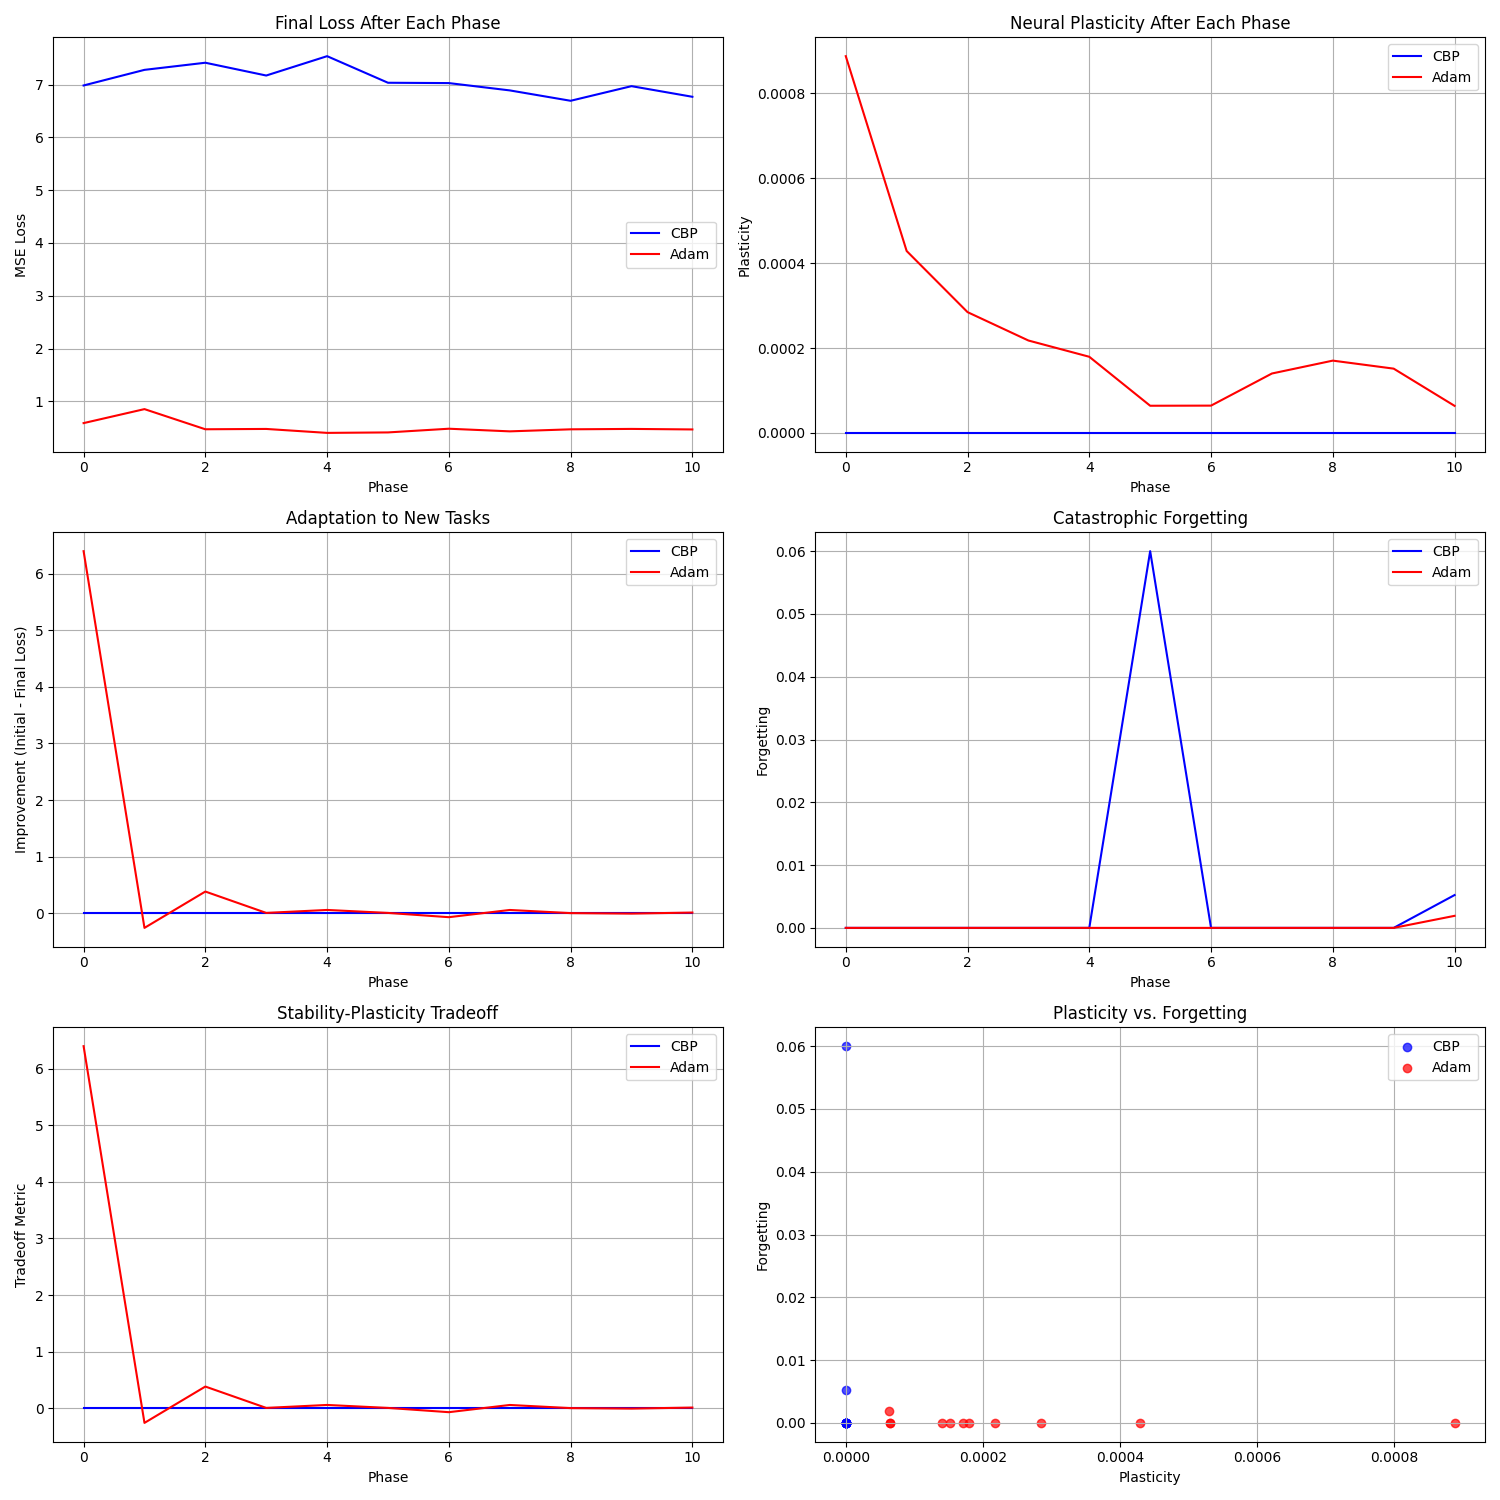
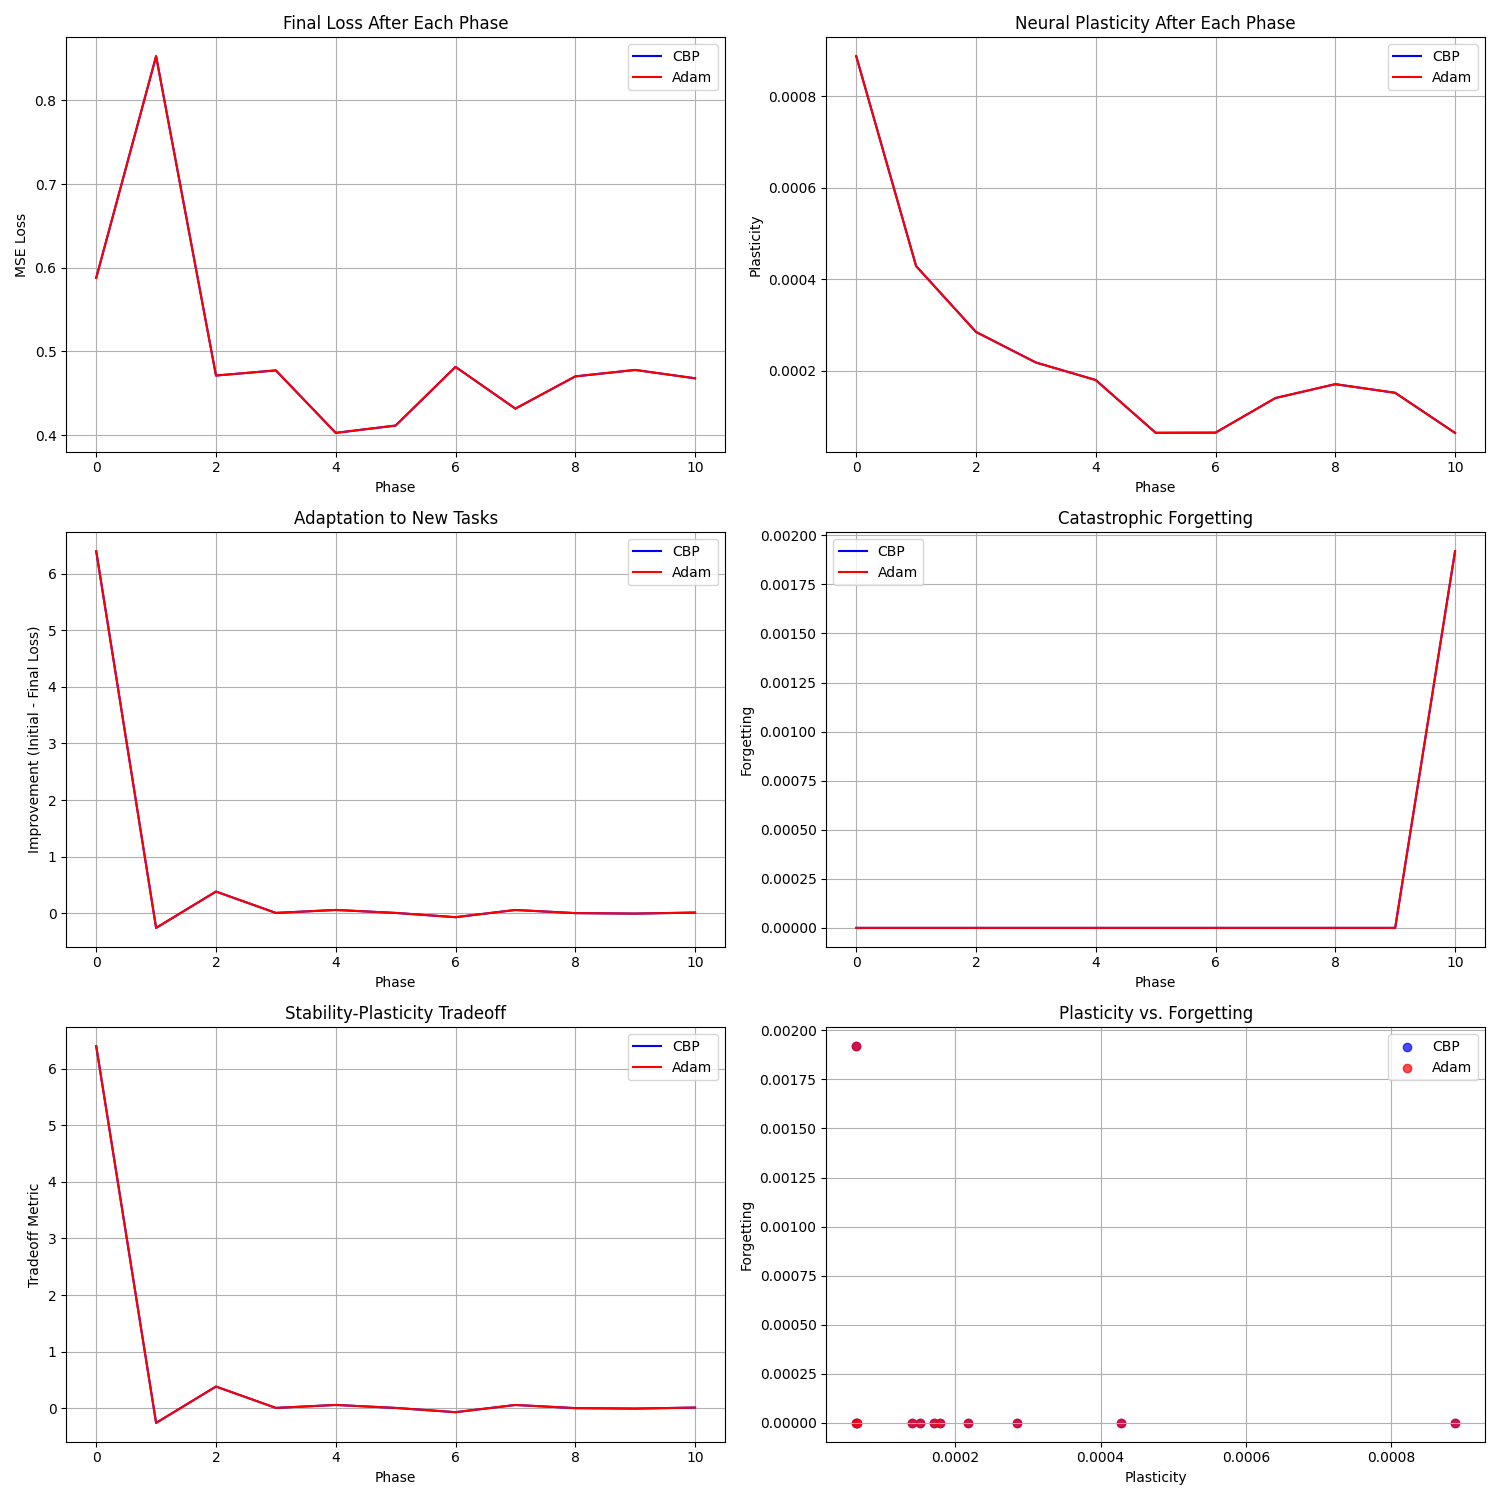
Updated at 2025-02-26 13:36:49

diff --git a/continual_learning/optim/continual_backprop.py b/continual_learning/optim/continual_backprop.py
@@ -1,3 +1,4 @@
+from flax import struct
 from flax.core import FrozenDict
 from flax.typing import FrozenVariableDict
 from jax.random import PRNGKey
@@ -12,74 +13,6 @@ import jax.numpy as jnp
 from copy import deepcopy
 from functools import partial
 
-# class ContinualBackprop(optax.GradientTransformation):
-#     def __init__(
-#         self,
-#         threshold: float = 0.1,
-#         sparsity: float = 0.5,
-#         begin_step: int = 0,
-#         end_step: None | int = None,
-#         frequency: int = 100,
-#     ):
-#         """Continual backpropergation optimiser.
-#
-#         Args:
-#             threshold: Magnitude threshold below which to prune
-#             sparsity: Target sparsity ratio (0 to 1)
-#             begin_step: Step to begin pruning
-#             end_step: Step to end pruning (None = no end)
-#             frequency: How often to update pruning mask
-#         """
-#         self.threshold = threshold
-#         self.sparsity = sparsity
-#         self.begin_step = begin_step
-#         self.end_step = end_step
-#         self.frequency = frequency
-#
-#     def init(self, params):
-#         """Initialize pruning state with mask of ones."""
-#         return PruningState(mask=jax.tree_map(lambda x: jnp.ones_like(x), params))
-#
-#     def update_mask(self, params, state):
-#         """Update pruning mask based on parameter magnitudes."""
-#         # Calculate magnitude of parameters
-#         magnitudes = jax.tree_map(lambda x: jnp.abs(x), params)
-#
-#         # Find threshold for desired sparsity
-#         flat_magnitudes = jax.tree_util.tree_leaves(magnitudes)
-#         flat_magnitudes = jnp.concatenate([x.ravel() for x in flat_magnitudes])
-#         threshold = jnp.quantile(flat_magnitudes, self.sparsity)
-#
-#         # Create new mask
-#         new_mask = jax.tree_map(
-#             lambda x: jnp.where(jnp.abs(x) > threshold, 1.0, 0.0), params
-#         )
-#         return new_mask
-#
-#     def update(self, updates, state, params=None):
-#         """Apply pruning transform to updates."""
-#         del params
-#
-#         # Increment counter
-#         new_count = state.count + 1
-#
-#         # Update mask if needed
-#         should_update = (
-#             (new_count >= self.begin_step)
-#             & ((self.end_step is None) | (new_count <= self.end_step))
-#             & (new_count % self.frequency == 0)
-#         )
-#
-#         def update_fn(mask, update):
-#             # Apply existing mask
-#             pruned_update = update * mask
-#             return pruned_update
-#
-#         # Apply mask to updates
-#         new_updates = jax.tree_map(update_fn, state.mask, updates)
-#
-#         return new_updates, PruningState(mask=state.mask, count=new_count)
-
 UTIL_TYPES = [
     "weight",
     "contribution",
@@ -88,44 +21,76 @@ UTIL_TYPES = [
     "adaptable_contribution",
     "feature_by_input",
 ]
-
+def check_tree_shapes(tree1: PyTree, tree2: PyTree):
+    ## assert tree shapes havn't changed
+    old_tree_structure = jax.tree_util.tree_structure(tree1)
+    new_tree_structure = jax.tree_util.tree_structure(tree2)
+    assert old_tree_structure == new_tree_structure, (
+        f"Tree structure has changed from {old_tree_structure} to {new_tree_structure}"
+    )
 
 class CBPTrainState(TrainState):
+    cbp_state: optax.OptState = struct.field(pytree_node=True)
+
+    @classmethod
+    def create(cls, *, apply_fn, params, tx, **kwargs):
+        """Creates a new instance with ``step=0`` and initialized ``opt_state``."""
+        # We exclude OWG params when present because they do not need opt states.
+        # params_with_opt = (
+        #   params['params'] if OVERWRITE_WITH_GRADIENT in params else params
+        # )
+        opt_state = tx.init(params)
+        cbp_state = continual_backprop().init(params)
+        return cls(
+          step=0,
+          apply_fn=apply_fn,
+          params=params,
+          tx=tx,
+          opt_state=opt_state,
+          cbp_state=cbp_state,
+          **kwargs,
+        )
+
+
     def apply_gradients(self, *, grads, features, **kwargs):
         """TrainState that gives intermediates to optimizer and overwrites params with updates directly"""
         # Extract the params we want to optimize
-        grads_with_opt = grads["params"]
-        # print("self.params", self.params)
-        params_with_opt = self.params["params"]
+        grads = grads["params"]
+        params_for_cbp = self.params["params"]
 
-        # Update with optimizer
-        # updates, new_opt_state = self.tx.update(
-        #     grads_with_opt, self.opt_state, params_with_opt, features=features
-        # )
-
-        new_params, new_opt_state = continual_backprop().update(
-            grads_with_opt,
-            self.opt_state[0],
-            params_with_opt,
+        # Update with continual backprop
+        new_params, new_cbp_state = continual_backprop().update(
+            grads,
+            self.cbp_state,
+            params_for_cbp,
             features=features["intermediates"]["activations"][0],
         )
-        old_tree_structure = jax.tree_util.tree_structure(params_with_opt)
-        new_tree_structure = jax.tree_util.tree_structure(new_params)
-        # assert old_tree_structure == new_tree_structure, (
-        #     f"Tree structure has changed from {old_tree_structure} to {new_tree_structure} after cbp update"
-        # )
-        # new_params_with_opt = optax.apply_updates(params_with_opt, updates)
+        
+        check_tree_shapes(new_params, params_for_cbp)
 
-        # Maintain the nested structure of params
-        new_params = {"params": new_params}
+        # Prepare for optax optimizer
+        params_for_opt = {"params": new_params}
+        grad_for_opt = {"params": grads}
+        
+        print("params_for_opt", params_for_opt.keys())
+        print("grad_for_opt", grad_for_opt.keys())
+        
+        # Get updates from optimizer
+        tx_updates, new_opt_state = self.tx.update(grad_for_opt, self.opt_state, params_for_opt)
+        
+        # FIXED: Apply updates to params_for_opt (which has 'params' key) not new_params
+        new_params_with_opt = optax.apply_updates(params_for_opt, tx_updates)
+        
+        # Extract the updated parameters from the nested structure
+        final_params = new_params_with_opt["params"]
 
         return self.replace(
             step=self.step + 1,
-            params=new_params,
+            params={"params": final_params},  # Make sure to maintain the 'params' structure
             opt_state=new_opt_state,
+            cbp_state=new_cbp_state[0],
             **kwargs,
         )
-
 
 @dataclass
 class CBPOptimState:
@@ -177,6 +142,7 @@ def continual_backprop(
     def process_params(params: FrozenDict):
         # seperates bias from params
         _params = deepcopy(params)  # ["params"]
+        # breakpoint()
         excluded = {
             "out_layer": _params.pop("out_layer")
         }  # TODO: pass excluded layer names as inputs to cp optim/final by default
@@ -269,10 +235,9 @@ def continual_backprop(
         ):
             """
             TODO:
-            > loops through weights and bias, skip biases if not needed note this will need to happen for util initialisation too
-            > features are after activation, can maybe just assume relu but remember last layer has no activation
-            > make actual bound
-            > Don't need an age for each connection, only each neuron in the network
+            > Only get the masks for which neurons need pruning
+            > Then process so that both layers are masked for pruning
+            > Prune based on new mask.
             """
 
             # Maybe have a dictionary of the different util func transformations and then call the index in a cond

diff --git a/continual_learning/nn/ffnn_test.py b/continual_learning/nn/ffnn_test.py
@@ -58,13 +58,13 @@ def test_optim():
     net_custom = FFNN()
     params = net_custom.init(key, dummy_input)
 
-    tx = optax.chain(
-        continual_backprop(),
-        # optax.adam(1e-1)  # Base optimiser
-    )
+    # tx = optax.chain(
+    #     continual_backprop(),
+    #     # optax.adam(1e-1)  # Base optimiser
+    # )
     tx_adam = optax.adam(0)
 
-    net_ts = CBPTrainState.create(apply_fn=net_custom.predict, params=params, tx=tx)
+    net_ts = CBPTrainState.create(apply_fn=net_custom.predict, params=params, tx=tx_adam)
     net_ts_adam = TrainState.create(
         apply_fn=net_custom.predict, params=params, tx=tx_adam
     )

diff --git a/continual_learning/nn/sine_exp.py b/continual_learning/nn/sine_exp.py
@@ -174,11 +174,11 @@ def continual_sine_learning(
     params = net.init(init_key, dummy_input)
 
     # Initialize optimizers
-    cbp_tx = optax.chain(continual_backprop(), optax.adam(learning_rate))
+    # cbp_tx = optax.chain(continual_backprop(), optax.adam(learning_rate))
     adam_tx = optax.adam(learning_rate)
 
     # Create train states
-    cbp_state = CBPTrainState.create(apply_fn=net.predict, params=params, tx=cbp_tx)
+    cbp_state = CBPTrainState.create(apply_fn=net.predict, params=params, tx=adam_tx)
     adam_state = TrainState.create(apply_fn=net.predict, params=params, tx=adam_tx)
 
     # Define loss function
